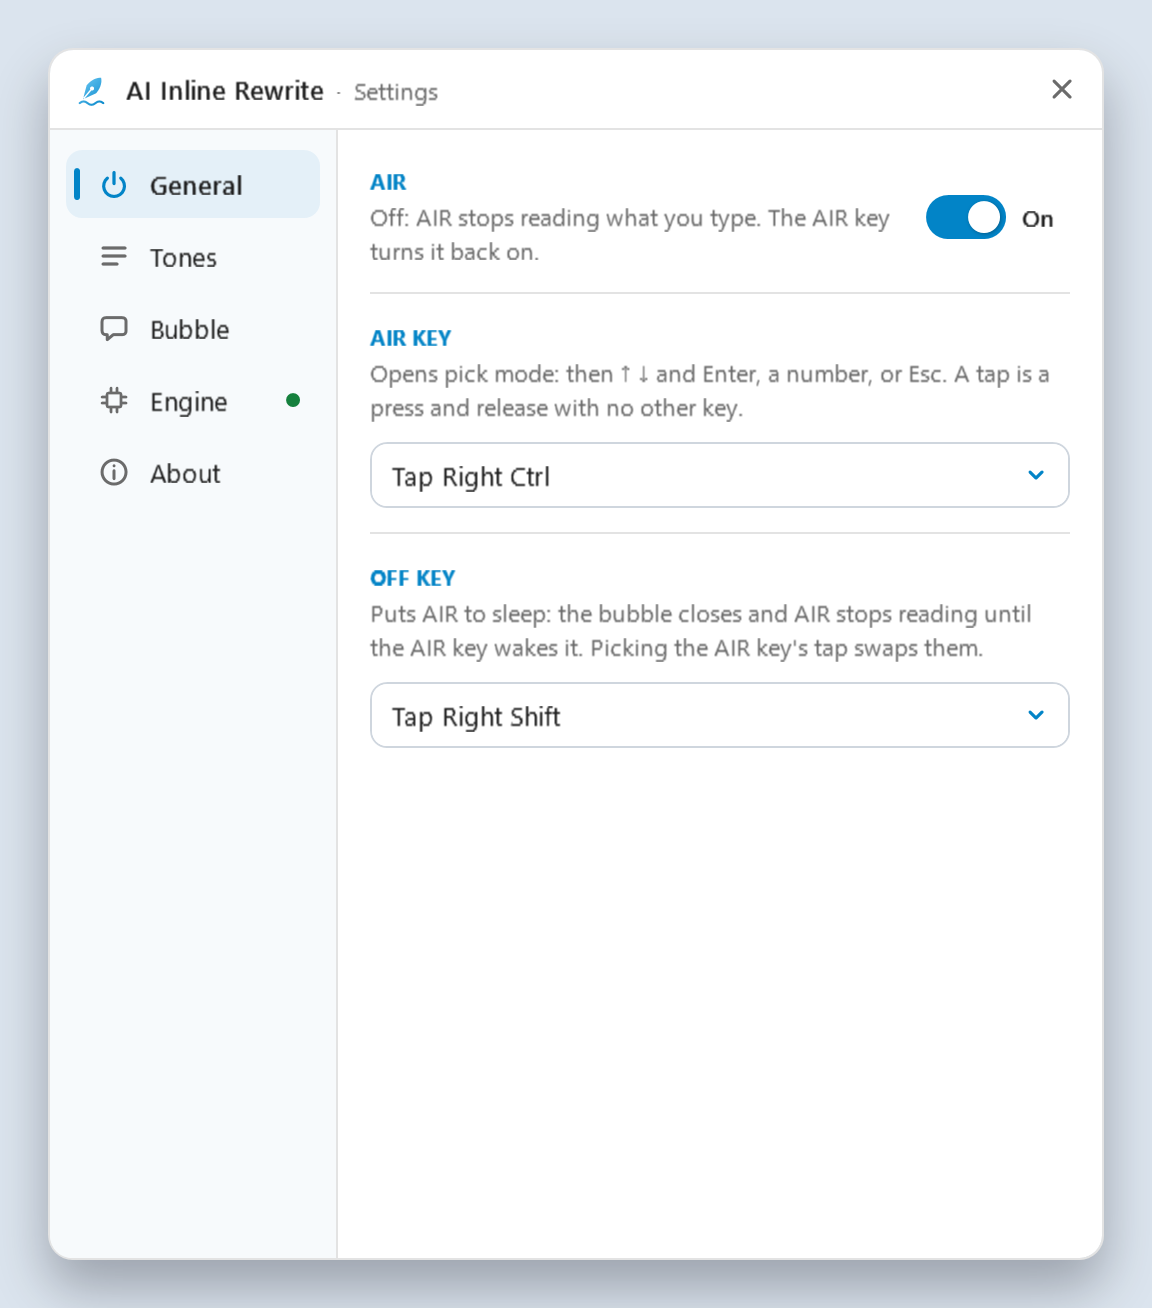
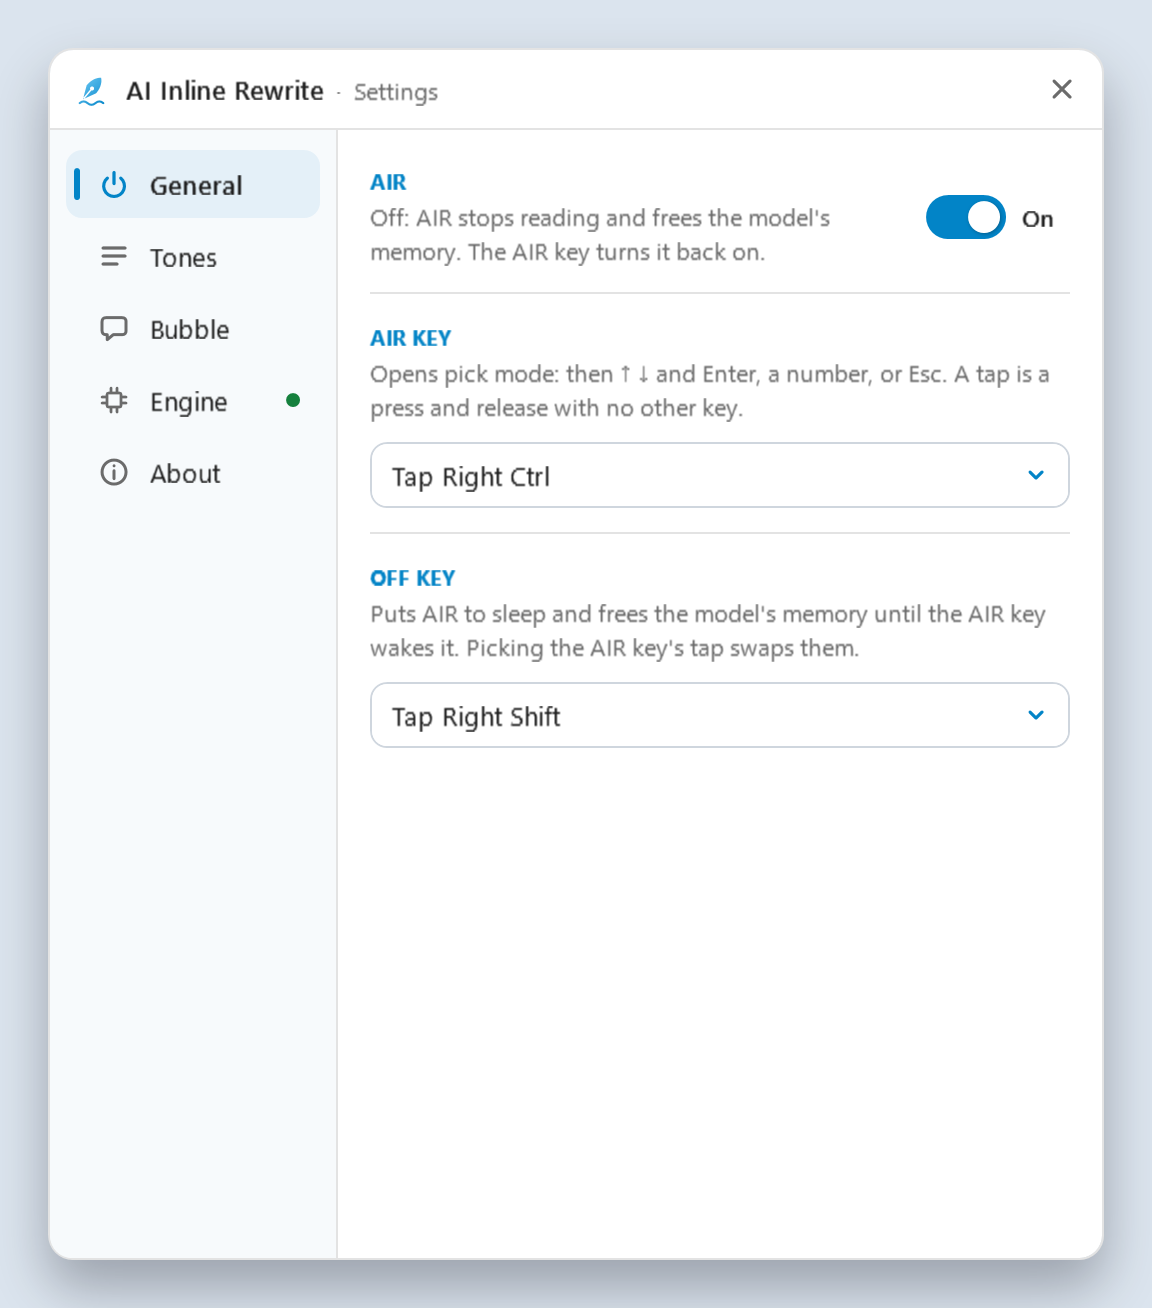
AIR 0.4.1: asleep or quitting, AIR frees the model's memory; waking it loads the model again

Changed region(s): [[0.3125, 0.4587, 0.9062, 0.5199], [0.3125, 0.1529, 0.7812, 0.2141]]

diff --git a/tools/smoke/smoke_test.py b/tools/smoke/smoke_test.py
@@ -12,7 +12,8 @@ at the end.
 
 Needs Python 3 with Pillow, and the engine in the settings ready (Ollama with the model, or an Anthropic key).
 The engine picker checks switch to Claude and expect its no-key state, so they run only when the engine is Ollama
-and this PC has no Anthropic credential; otherwise they print SKIP.
+and this PC has no Anthropic credential; otherwise they print SKIP. With Ollama as the engine it also checks, through
+Ollama's /api/ps, that AIR asleep frees the model and that waking it loads the model again.
 """
 import ctypes
 import ctypes.wintypes as W
@@ -23,6 +24,7 @@ import subprocess
 import sys
 import time
 import traceback
+import urllib.request
 
 from PIL import ImageGrab
 
@@ -107,6 +109,26 @@ def anthropic_credential():
         return True
     config = os.environ.get('ANTHROPIC_CONFIG_DIR') or os.path.join(os.environ['APPDATA'], 'Anthropic')
     return os.path.isdir(os.path.join(config, 'configs')) or os.path.exists(os.path.join(config, 'active_config'))
+
+
+def ollama_engine():
+    """(endpoint, model) when the settings run Ollama, else None: the checks that AIR asleep frees the model ask
+    Ollama what it holds (/api/ps)."""
+    try:
+        with open(SETTINGS, encoding='utf-8-sig') as f:
+            s = json.load(f)
+    except (OSError, ValueError):
+        return None
+    if s.get('Engine') != 'Ollama':
+        return None
+    return (s.get('OllamaEndpoint') or 'http://localhost:11434').rstrip('/'), s.get('OllamaModel') or 'qwen2.5:7b'
+
+
+def ollama_holds(engine):
+    """Is the model loaded in Ollama now?"""
+    endpoint, model = engine
+    with urllib.request.urlopen(endpoint + '/api/ps', timeout=5) as r:
+        return any(m.get('name') == model or m.get('model') == model for m in json.load(r).get('models', []))
 
 
 def shot(name, box=None):
@@ -301,11 +323,18 @@ def run(air_pid, tgt_pid, pids):
     guard(pids); wi.press('rshift')
     check('a tap of Right Shift puts AIR to sleep and hides the bubble',
           within(3, lambda: not wi.user32.IsWindowVisible(bub)))
+    ollama = ollama_engine()
+    if ollama:
+        check('AIR asleep frees the model: Ollama no longer holds it', within(10, lambda: not ollama_holds(ollama)))
+    else:
+        print('SKIP model freed while asleep: it is read from Ollama, and the engine is not Ollama', flush=True)
     type_here(' ok')
     time.sleep(2)  # nothing to wait for: the check is that no bubble comes back while AIR sleeps
     check('typing while AIR sleeps shows nothing', not wi.user32.IsWindowVisible(bub))
     guard(pids); wi.press('rctrl')
     check('the AIR key wakes AIR and the bubble is back', within(3, lambda: wi.user32.IsWindowVisible(bub)), status())
+    if ollama:
+        check('waking AIR loads the model again', within(20, lambda: ollama_holds(ollama)))
 
     # drag the bubble: follow turns off; the arrow turns it back on
     air_label = find(ui(), lambda e: e['type'] == 'Text' and e['name'] == 'AIR', 'the AIR label of the bubble')

diff --git a/src/AiInlineRewrite/AppController.cs b/src/AiInlineRewrite/AppController.cs
@@ -576,7 +576,8 @@ public sealed class AppController : ISettingsHost, IDisposable
         if (!ReferenceEquals(engine, _rewriter)) return; // switched meanwhile: the new engine's own check reports
         _engine = state;
         Log.Write($"engine {engine.Kind}: {_engine}");
-        if (_engine == EngineState.Ready) _ = Task.Run(() => engine.PreloadAsync(CancellationToken.None));
+        // asleep, AIR leaves the model out of memory until the AIR key wakes it (SetOn)
+        if (_engine == EngineState.Ready && _settings.On) _ = Task.Run(() => engine.PreloadAsync(CancellationToken.None));
         else if (_mode == Mode.Idle) _mode = Mode.Error;
         Render();
         _settingsWindow?.SyncEngine();
@@ -825,6 +826,8 @@ public sealed class AppController : ISettingsHost, IDisposable
         _settingsWindow.Activate();
     }
 
+    // Off (the off key, the AIR key's switch, the tray) frees the model's memory, so a game gets the video memory back;
+    // on again checks the engine and loads the model, so the first version does not wait for it.
     public void SetOn(bool on)
     {
         if (_settings.On == on) return;
@@ -837,16 +840,29 @@ public sealed class AppController : ISettingsHost, IDisposable
             _pickTimer.Stop();
             _rows = [];
             _mode = Mode.Idle;
+            ReleaseModel("AIR off");
         }
         else
         {
             _lastProcessed = "";
+            _ = CheckEngineAsync();
         }
         Log.Write("AIR " + (on ? "on" : "off"));
         PaintTray();
         Render();
         _settingsWindow?.Sync();
         SaveSoon();
+    }
+
+    private void ReleaseModel(string why)
+    {
+        var engine = _rewriter;
+        _ = Task.Run(async () =>
+        {
+            var watch = Stopwatch.StartNew();
+            await engine.ReleaseAsync(CancellationToken.None);
+            Log.Write($"engine {engine.Kind}: model released ({why}) in {watch.Elapsed.TotalSeconds:0.0} s");
+        });
     }
 
     public void SetToneOn(Tone tone, bool on)
@@ -1018,6 +1034,9 @@ public sealed class AppController : ISettingsHost, IDisposable
         if (_saveTimer.IsEnabled) SaveNow();
         _cts?.Cancel();
         _download?.Cancel();
+        // quitting frees the model too: Ollama would keep it for half an hour; a short wait, so Exit never hangs
+        var engine = _rewriter;
+        Task.Run(() => engine.ReleaseAsync(CancellationToken.None)).Wait(TimeSpan.FromSeconds(2));
         _hook.Dispose();
         _mouse.Dispose();
         _shortcuts?.Dispose();

diff --git a/src/AiInlineRewrite/Llm/OllamaClient.cs b/src/AiInlineRewrite/Llm/OllamaClient.cs
@@ -15,7 +15,8 @@ public sealed class OllamaClient : IRewriteEngine
 {
     /// <summary>
     /// How long Ollama keeps the model in memory after the last request (its own default is 5 minutes). Every request
-    /// renews it, so the model stays loaded while you write and frees its memory half an hour after the last pause.
+    /// renews it, so the model stays loaded while you write and frees its memory half an hour after the last pause, or
+    /// at once when AIR goes to sleep or quits (<see cref="ReleaseAsync"/>).
     /// </summary>
     public const string KeepAlive = "30m";
 
@@ -166,6 +167,24 @@ public sealed class OllamaClient : IRewriteEngine
         catch (Exception e) when (e is EngineException or OperationCanceledException)
         {
             // the server may still be starting; the first rewrite reports the real state
+        }
+    }
+
+    /// <summary>
+    /// Asks Ollama to unload the model now (no prompt, keep_alive 0) instead of half an hour after the last request.
+    /// Never throws: an Ollama that is down holds nothing.
+    /// </summary>
+    public async Task ReleaseAsync(CancellationToken ct)
+    {
+        var body = new { model = Model, keep_alive = 0 };
+        try
+        {
+            using var content = new StringContent(JsonSerializer.Serialize(body), Encoding.UTF8, "application/json");
+            using var resp = await _http.PostAsync(_endpoint + "/api/generate", content, ct);
+        }
+        catch (Exception e) when (e is HttpRequestException or IOException or OperationCanceledException)
+        {
+            // nothing to free, or no time left to ask (AIR is quitting)
         }
     }
 

diff --git a/tests/AiInlineRewrite.Tests/OllamaClientTests.cs b/tests/AiInlineRewrite.Tests/OllamaClientTests.cs
@@ -159,6 +159,36 @@ public class OllamaClientTests
     }
 
     [Fact]
+    public async Task Release_asks_Ollama_to_unload_the_model_at_once()
+    {
+        var http = FakeHttp.Always(HttpStatusCode.OK, """{"model":"qwen2.5:7b","done":true,"done_reason":"unload"}""");
+        await Client(http).ReleaseAsync(CancellationToken.None);
+
+        var (method, uri, body) = Assert.Single(http.Requests);
+        Assert.Equal(HttpMethod.Post, method);
+        Assert.Equal("/api/generate", uri.AbsolutePath);
+        using var doc = JsonDocument.Parse(body);
+        Assert.Equal("qwen2.5:7b", doc.RootElement.GetProperty("model").GetString());
+        Assert.Equal(0, doc.RootElement.GetProperty("keep_alive").GetInt32()); // 0: unload now
+        Assert.False(doc.RootElement.TryGetProperty("prompt", out _)); // no prompt: nothing is written
+    }
+
+    [Theory]
+    [InlineData("unreachable")]
+    [InlineData("error")]
+    [InlineData("cancelled")]
+    public async Task Release_never_throws(string how)
+    {
+        var http = how == "unreachable" ? FakeHttp.Unreachable() : FakeHttp.Always(HttpStatusCode.InternalServerError, "boom");
+        using var cts = new CancellationTokenSource();
+        if (how == "cancelled") await cts.CancelAsync();
+
+        await Client(http).ReleaseAsync(cts.Token);
+
+        Assert.True(http.Requests.Count <= 1);
+    }
+
+    [Fact]
     public async Task The_model_list_comes_from_the_tags()
     {
         var http = FakeHttp.Always(HttpStatusCode.OK, """{"models":[{"name":"qwen2.5:7b"},{"name":"gemma4:12b"}]}""");

diff --git a/src/AiInlineRewrite/Ui/SettingsWindow.cs b/src/AiInlineRewrite/Ui/SettingsWindow.cs
@@ -559,7 +559,7 @@ public sealed class SettingsWindow : Window
     {
         _onToggle = new Toggle(p, _host.Settings.On, "AIR on or off");
         _onToggle.Changed += on => _host.SetOn(on);
-        return Section(p, first, Line(p, "AIR", "Off: AIR stops reading what you type. The AIR key turns it back on.", _onToggle));
+        return Section(p, first, Line(p, "AIR", "Off: AIR stops reading and frees the model's memory. The AIR key turns it back on.", _onToggle));
     }
 
     private FrameworkElement FollowSection(Palette p)
@@ -587,7 +587,7 @@ public sealed class SettingsWindow : Window
         var s = _host.Settings;
         var stack = new StackPanel();
         stack.Children.Add(KeySection(p, "air", "AIR key", "Opens pick mode: then ↑ ↓ and Enter, a number, or Esc. A tap is a press and release with no other key.", s.AirKey, focus));
-        stack.Children.Add(KeySection(p, "off", "Off key", "Puts AIR to sleep: the bubble closes and AIR stops reading until the AIR key wakes it. Picking the AIR key's tap swaps them.", s.OffKey, focus));
+        stack.Children.Add(KeySection(p, "off", "Off key", "Puts AIR to sleep and frees the model's memory until the AIR key wakes it. Picking the AIR key's tap swaps them.", s.OffKey, focus));
         _keysBody.Child = stack;
     }
 

diff --git a/src/AiInlineRewrite/Local/BuiltInEngine.cs b/src/AiInlineRewrite/Local/BuiltInEngine.cs
@@ -18,7 +18,10 @@ namespace AiInlineRewrite.Local;
 /// </summary>
 public sealed class BuiltInEngine : IRewriteEngine
 {
-    /// <summary>How long the model stays in memory after the last version, as with Ollama (<see cref="OllamaClient.KeepAlive"/>).</summary>
+    /// <summary>
+    /// How long the model stays in memory after the last version, as with Ollama (<see cref="OllamaClient.KeepAlive"/>);
+    /// AIR asleep or quitting frees it at once (<see cref="ReleaseAsync"/>).
+    /// </summary>
     public static readonly TimeSpan KeepLoaded = TimeSpan.FromMinutes(30);
 
     private const int MaxTokens = 256;
@@ -69,6 +72,21 @@ public sealed class BuiltInEngine : IRewriteEngine
         {
             // the first real version reports the state
         }
+    }
+
+    /// <summary>Drops the model from memory now, once a version being written lets go of it. Never throws.</summary>
+    public async Task ReleaseAsync(CancellationToken ct)
+    {
+        try
+        {
+            await Gate.WaitAsync(ct);
+        }
+        catch (OperationCanceledException)
+        {
+            return;
+        }
+        try { Unload(); }
+        finally { Gate.Release(); }
     }
 
     /// <summary>As with Ollama: a version that left English is asked for once more, saying so.</summary>

diff --git a/src/AiInlineRewrite/Llm/IRewriteEngine.cs b/src/AiInlineRewrite/Llm/IRewriteEngine.cs
@@ -25,6 +25,13 @@ public interface IRewriteEngine
 
     /// <summary>Gets ready so the first rewrite is quick (Ollama loads the model). Never throws.</summary>
     Task PreloadAsync(CancellationToken ct);
+
+    /// <summary>
+    /// Frees the memory the model holds on this PC (video memory, on a graphics card), for when AIR goes to sleep or
+    /// quits, so a game or another app gets it back. <see cref="PreloadAsync"/>, or the next rewrite, loads it again.
+    /// Never throws.
+    /// </summary>
+    Task ReleaseAsync(CancellationToken ct);
 }
 
 /// <summary>The engine failed in a way the bubble can explain (<see cref="EngineStatus"/>).</summary>

diff --git a/src/AiInlineRewrite/Llm/ClaudeClient.cs b/src/AiInlineRewrite/Llm/ClaudeClient.cs
@@ -112,6 +112,9 @@ public sealed class ClaudeClient : IRewriteEngine
     /// <summary>Nothing to load: the model runs at Anthropic.</summary>
     public Task PreloadAsync(CancellationToken ct) => Task.CompletedTask;
 
+    /// <summary>Nothing to free either: no model in this PC's memory.</summary>
+    public Task ReleaseAsync(CancellationToken ct) => Task.CompletedTask;
+
     // What an SDK or network failure means for the bubble; null for what is not an engine failure (cancellation).
     private EngineException? Translate(Exception e) => e switch
     {

diff --git a/tests/AiInlineRewrite.Tests/ClaudeClientTests.cs b/tests/AiInlineRewrite.Tests/ClaudeClientTests.cs
@@ -157,6 +157,14 @@ public class ClaudeClientTests
     }
 
     [Fact]
+    public async Task Release_sends_nothing()
+    {
+        var http = FakeHttp.Unreachable();
+        await Client(http).ReleaseAsync(CancellationToken.None);
+        Assert.Empty(http.Requests);
+    }
+
+    [Fact]
     public void Claude_in_the_settings_creates_only_the_Claude_engine()
     {
         var claude = RewriteEngines.Create(new Settings { Engine = EngineKind.Claude, ClaudeModel = "claude-sonnet-5-5" });

diff --git a/docs/ENGINES.md b/docs/ENGINES.md
@@ -81,10 +81,11 @@ When it ends, AIR is ready with no restart.
 
 AIR runs llama.cpp through [LLamaSharp](https://github.com/SciSharp/LLamaSharp) 0.30.0 (MIT), with two native builds
 next to the exe: Vulkan, for a GPU with a Vulkan driver (NVIDIA, AMD, Intel), and the CPU. It loads the model as soon
-as it finds it (when AIR starts, when the engine is picked, when the download ends): all layers on the GPU, else 16 of
-them, else none (the CPU alone). On the reference machine loading took
-about 2 s, with all 29 layers on the GPU. After 30 minutes without a rewrite, AIR frees the model and its memory; the
-next pause loads it again.
+as it finds it while AIR is on (when AIR starts or wakes, when the engine is picked, when the download ends): all layers
+on the GPU, else 16 of them, else none (the CPU alone). On the reference machine loading took
+about 2 s, with all 29 layers on the GPU. AIR frees the model and its memory when it goes to sleep (the off key, the
+switch in the settings, the tray) or quits, and after 30 minutes without a rewrite; waking AIR, or the next pause,
+loads it again.
 
 When the model cannot run (not enough memory, most likely), the bubble says "The model could not run" and asks to
 close programs that use a lot of memory. The diagnostic log (`DiagnosticLog`) records the device llama.cpp picked and
@@ -183,19 +184,22 @@ Sitting there, the loaded model held memory and drew about 1 W more: 20 seconds 
 
 **How long it stays loaded.** Ollama's own default is 5 minutes after the last request (`OLLAMA_KEEP_ALIVE` changes
 that default). AIR asks for 30 minutes on every request (`keep_alive: "30m"`, `OllamaClient.KeepAlive`), which
-overrides that default, and loads the model once when it starts, so the first version is quick. So the model is
-loaded from the moment AIR starts, while you type, and until 30 minutes after your last pause.
+overrides that default, and loads the model once when it starts or wakes, so the first version is quick. So the model
+is loaded while AIR is on, from the moment it starts and until 30 minutes after your last pause.
 
-**Freeing it.**
+**Freeing it.** Putting AIR to sleep (the off key, the switch in the settings, the tray) or quitting it frees the
+model at once: AIR asks Ollama to unload it (`keep_alive: 0`, `OllamaClient.ReleaseAsync`), and waking AIR loads it
+again. That unloads `qwen2.5:7b` for anything else using it too; its next request loads it back. On the reference
+machine, freeing it took about 2 s and loading it again 3.4 s. By hand:
 
 ```powershell
 ollama ps                  # what is loaded, and until when
 ollama stop qwen2.5:7b     # unload it now
 ```
 
-Quit AIR first, or turn it off in the tray: otherwise the next pause loads the model again (2.0 to 2.5 s on the
-reference machine's GPU). Quitting Ollama from its tray icon frees everything. A shorter time needs
-`OllamaClient.KeepAlive` changed and a rebuild; a setting for it is on the [roadmap](../TODO.md).
+While AIR is on, the next pause loads the model again (2.0 to 2.5 s on the reference machine's GPU). Quitting Ollama
+from its tray icon frees everything. A shorter time while AIR is on needs `OllamaClient.KeepAlive` changed and a
+rebuild; a setting for it is on the [roadmap](../TODO.md).
 
 Only the reference machine's 12 GB GPU was measured; how other cards fit the model was not tested
 ([TODO](../TODO.md#not-validated-yet)).

diff --git a/docs/ARCHITECTURE.md b/docs/ARCHITECTURE.md
@@ -50,7 +50,8 @@ keyboard hook ──> AppController ──(pause)──> FocusedText (UI Automat
 `AppController` talks to one `IRewriteEngine` (`Llm/IRewriteEngine.cs`), created by `RewriteEngines.Create` from
 `Settings.Engine`; only that engine exists in the process, so with Claude nothing ever reaches Ollama and the other way
 round. The built-in engine lives in the app (`Local/`), so the factory gets it through `RewriteEngines.BuiltIn`. An engine streams a version (`RewriteAsync`), says whether it can write now without spending tokens
-(`CheckAsync`, when it is created) and gets ready (`PreloadAsync`). A new engine or model from the settings window
+(`CheckAsync`, when it is created and when AIR wakes), gets ready (`PreloadAsync`, only while AIR is on) and frees the
+model's memory (`ReleaseAsync`, when AIR goes to sleep, from `AppController.SetOn`, or quits). A new engine or model from the settings window
 takes effect at once (`AppController.SwitchEngine`): the versions in flight are cancelled, the cached ones dropped,
 the new engine created and checked; a check that finishes after another switch is ignored. A failure the user can fix is an `EngineException` with an
 `EngineState`; `EngineStatus` turns it into the status line and the one-step hint, per engine.
@@ -58,12 +59,14 @@ the new engine created and checked; a check that finishes after another switch i
 - **`OllamaClient`**: `POST /api/generate` with the whole prompt (`Prompts.For`), temperature 0, `num_predict` 256 and
   `keep_alive` 30 minutes, read as NDJSON until `done`. `CheckAsync` reads `/api/tags` and looks for the model, and
   `ListModelsAsync` reads the same list for the settings window; `PreloadAsync` rewrites a made-up sentence so the
-  model is loaded before the first pause. Ollama runs the tones in
+  model is loaded before the first pause, and `ReleaseAsync` sends the model with `keep_alive` 0 and no prompt, which
+  unloads it. Ollama runs the tones in
   parallel or queues them, depending on its own settings.
 - **`BuiltInEngine`** (`Local/`): llama.cpp in the process through LLamaSharp, with the Vulkan and CPU native builds.
   `LocalModel` finds the model file (AIR's own download, else Ollama's blob of `qwen2.5:7b`, checked by digest and
   size); `CheckAsync` says `ModelMissing`, `Downloading` or ready without loading it. The weights load once per process
-  behind a lock (all layers on the GPU, then 16, then the CPU) and are freed after 30 minutes idle. Each version is
+  behind a lock (all layers on the GPU, then 16, then the CPU) and are freed after 30 minutes idle, or by
+  `ReleaseAsync` once the version being written lets go of the lock. Each version is
   a fresh stateless run over the ChatML prompt (`Prompts.Chat`), greedy, stopped at `<|im_end|>`. `ModelDownloader`
   (`Llm/`) fetches the two GGUF parts from Hugging Face with a resumable range request and a SHA-256 check, cuts a
   connection quiet for a minute, and tries again with a growing wait while tries bring bytes in; `AppController` runs

diff --git a/README.md b/README.md
@@ -46,7 +46,9 @@ sentence you are typing and writes it again in English, once per tone:
 Then tap the **AIR key** (Right Ctrl, alone) and pick a version: it replaces your sentence in place. Or ignore it
 and keep typing: the versions clear, and new ones come at the next pause. The bubble stays by your text while AIR is
 on; when you want it gone, tap **Right Shift** alone (the off key) to put AIR to sleep (or turn it off in the
-settings or the tray menu), and the AIR key brings it back.
+settings or the tray menu), and the AIR key brings it back. Asleep, AIR also frees the model's memory (video memory,
+on a graphics card), so a game or another app gets it back; the AIR key loads the model again, a few seconds before
+the first version. Quitting AIR frees it too.
 
 ## Engines
 
@@ -119,7 +121,7 @@ repository's issue form with AIR's version and engine filled in; what you typed 
 | **Enter** | applies the selected version |
 | **1** to **7** | applies that version directly |
 | **Esc** | clears the versions |
-| Tap **Right Shift** alone (the off key) | AIR sleeps: the bubble closes and nothing is written until you tap the AIR key |
+| Tap **Right Shift** alone (the off key) | AIR sleeps: the bubble closes, the model's memory is freed, and nothing is written until you tap the AIR key, which loads the model again |
 | Any other key, or 4 s without a key | leaves pick mode, and the key types as usual |
 | Click a version | applies it |
 | Drag the bubble by its bar | leaves it there (see *Follow the text cursor*) |
@@ -195,7 +197,8 @@ needs a step from you, such as the built-in model's download.
 </div>
 
 - **General**
-  - **AIR** on or off. Off, AIR stops reading what you type.
+  - **AIR** on or off. Off, AIR stops reading what you type and frees the model's memory; on, it loads the model
+    again.
   - **AIR key**: a tap of Right Ctrl (default), Right Shift, Left Ctrl or Left Shift, or *Custom shortcut…*, which
     records one: hold Ctrl, Alt or Win (and Shift, if you like) and press a key; Esc cancels.
   - **Off key**: puts AIR to sleep. A tap of Right Shift (default; Right Ctrl when Right Shift is the AIR key), any
